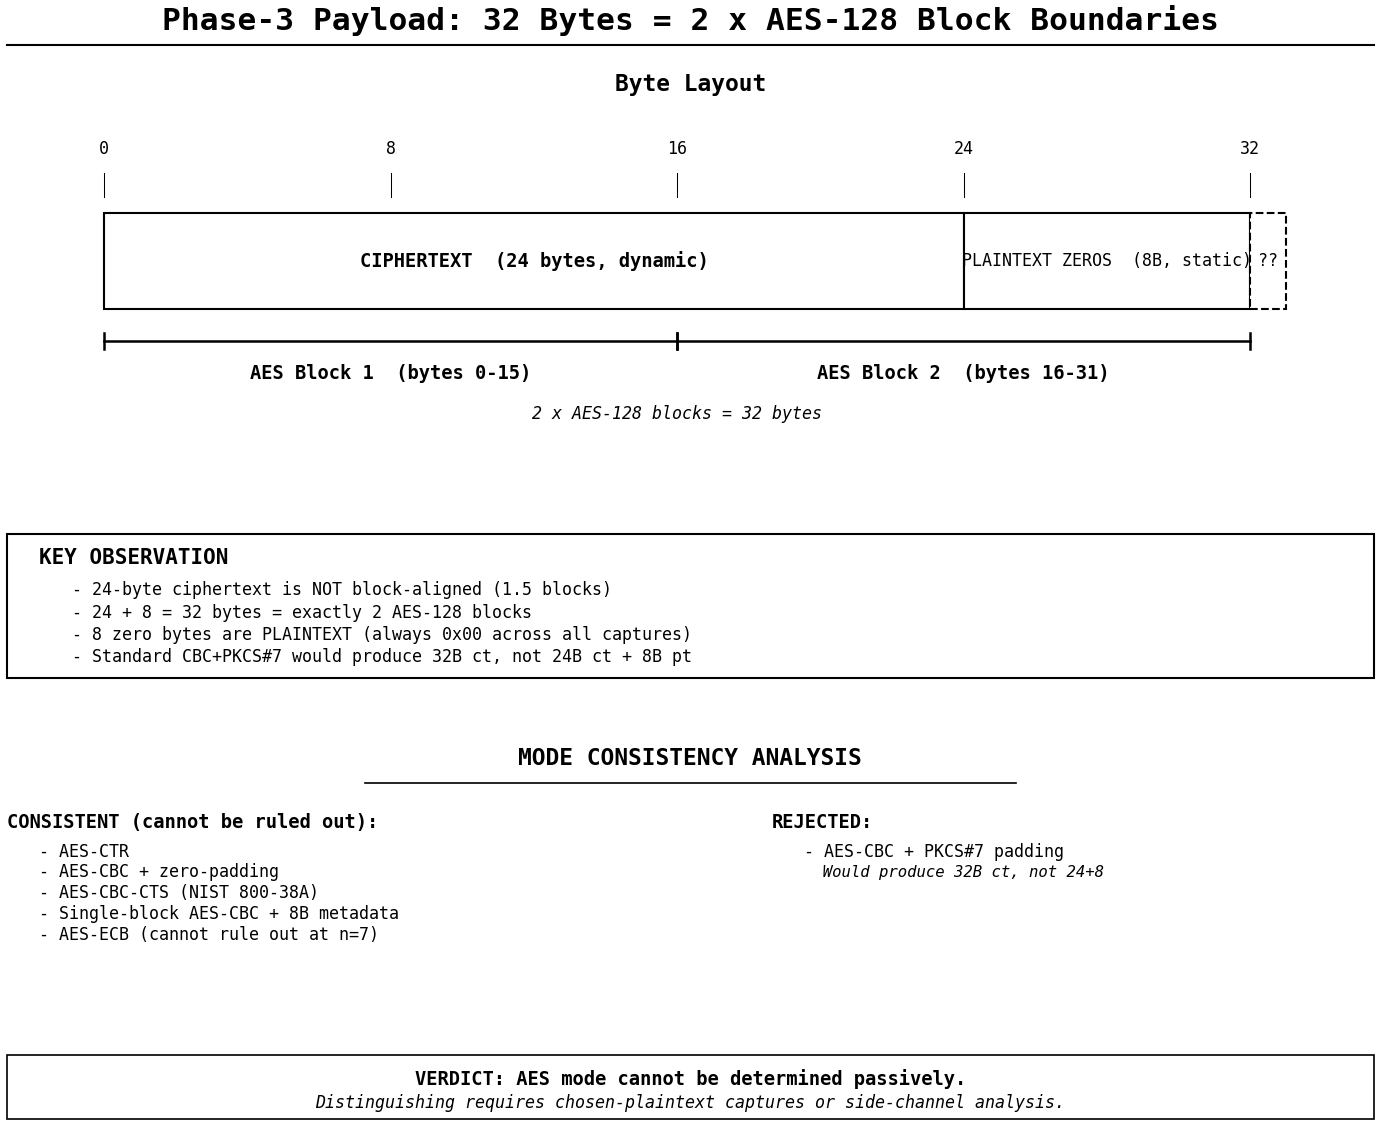
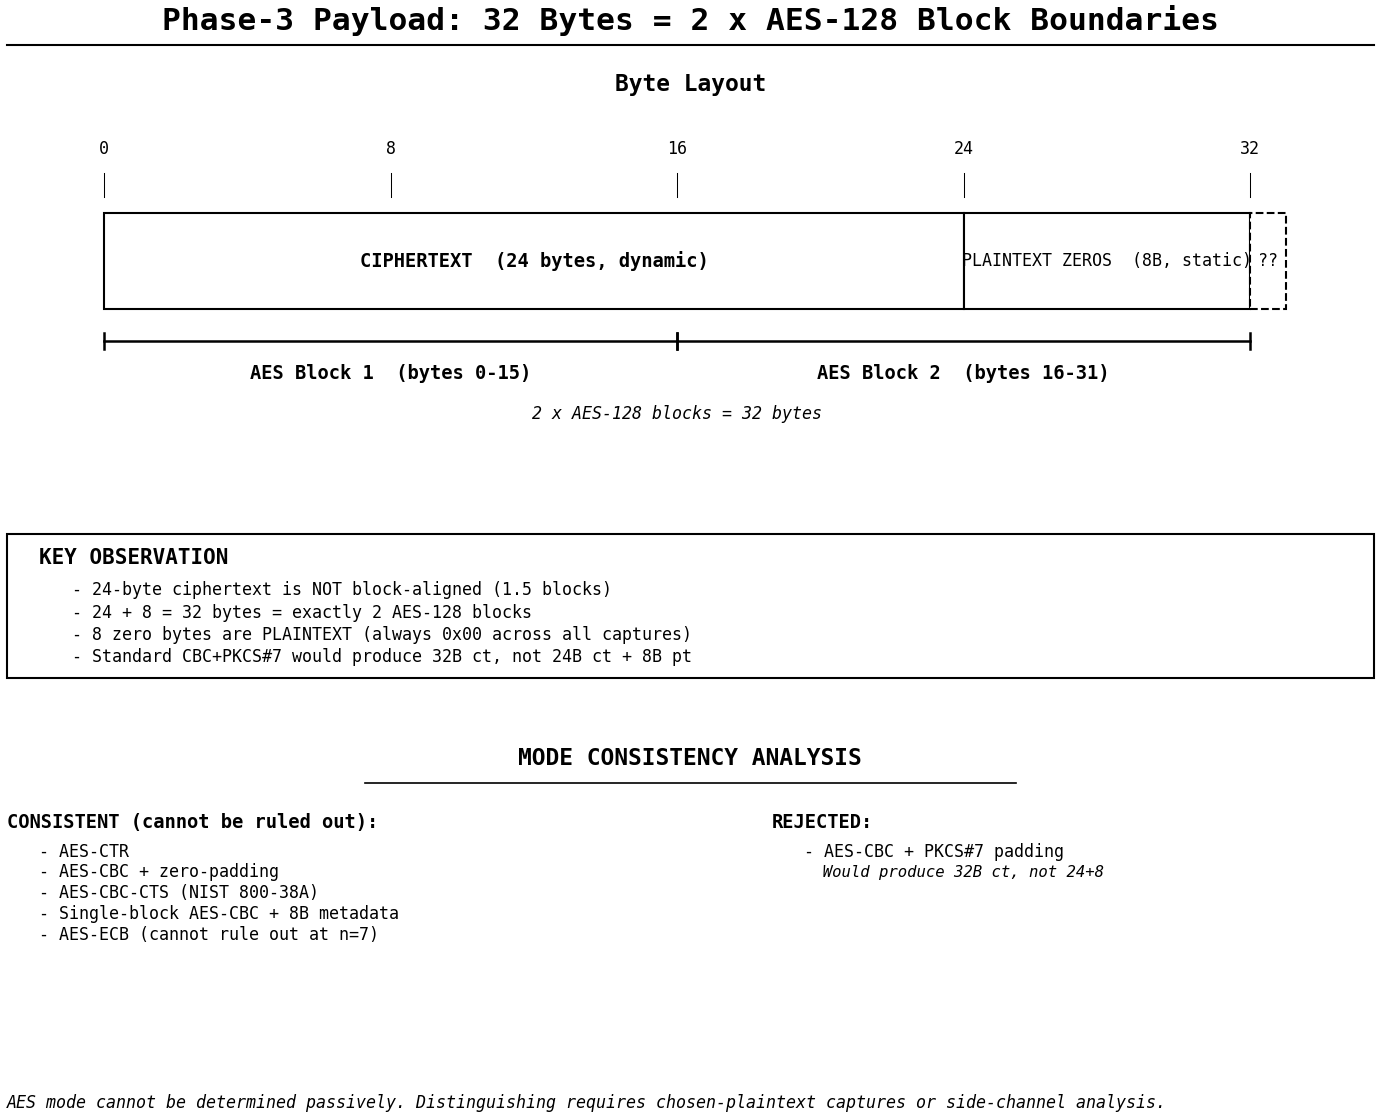
updated files and images

diff --git a/scripts/extended_analysis.py b/scripts/extended_analysis.py
@@ -1,7 +1,7 @@
 #!/usr/bin/env python3
 """
 Extended Differential Cryptanalysis incorporating:
-1. Previous researcher's 6 decoded packets (foo2-packets.txt)  
+1. Previous researcher's 6 decoded packets (decoded_unlock_sessions.txt)  
 2. Extas_compare CSV files (t1-t5.csv)
 3. Original 10 TimeStamps captures
 
@@ -79,7 +79,7 @@ def process_csv_file(file_path: str, reader_func) -> List[int]:
     return binary_to_bytes(binary_data)
 
 def parse_previous_work_packets(file_path: str) -> List[List[int]]:
-    """Parse the foo2-packets.txt format - extract complete unlock sessions."""
+    """Parse the decoded_unlock_sessions.txt format - extract complete unlock sessions."""
     sessions = []
     current_session = []
     
@@ -133,7 +133,7 @@ def parse_previous_work_packets(file_path: str) -> List[List[int]]:
     return sessions
 
 def parse_key_txt(file_path: str) -> List[int]:
-    """Parse key1.txt/key2.txt format."""
+    """Parse session_key_a.txt/session_key_b.txt format."""
     byte_values = []
     with open(file_path, 'r') as f:
         for line in f:
@@ -187,7 +187,7 @@ def extract_protocol_fields(session: List[int]) -> Dict:
             result['system_id'] = {'position': i, 'value': 'V1004261'}
             break
     
-    # Based on the packet structure from foo2-packets.txt:
+    # Based on the packet structure from decoded_unlock_sessions.txt:
     # The protocol uses a command/response structure:
     # 82 00 XX YY = command from master (lock/key)
     #    XX = command sequence number (01, 02, 03, 04)
@@ -323,7 +323,7 @@ def cross_source_comparison(all_sessions: List[List[int]], all_labels: List[str]
     print(f"  Total: {len(all_sessions)}")
     
     # Extract nonce (challenge) bytes from each session using the known protocol structure
-    # From foo2-packets.txt, the nonce is at: "00 02 11 08" followed by 8+1 bytes
+    # From decoded_unlock_sessions.txt, the nonce is at: "00 02 11 08" followed by 8+1 bytes
     print(f"\n{'─' * 70}")
     print("NONCE/CHALLENGE EXTRACTION (packet: 00 02 11 08 <8 bytes> <crc>)")
     print(f"{'─' * 70}")
@@ -342,7 +342,7 @@ def cross_source_comparison(all_sessions: List[List[int]], all_labels: List[str]
                 break
     
     # Extract MAC (authentication hash) from each session
-    # From foo2-packets.txt, MAC is at: "82 00 04 80 15" followed by 22 bytes
+    # From decoded_unlock_sessions.txt, MAC is at: "82 00 04 80 15" followed by 22 bytes
     print(f"\n{'─' * 70}")
     print("SHA-1 MAC EXTRACTION (packet: 82 00 04 80 15 <22 bytes>)")
     print(f"{'─' * 70}")
@@ -358,7 +358,7 @@ def cross_source_comparison(all_sessions: List[List[int]], all_labels: List[str]
                 break
     
     # Extract encrypted payload from each session
-    # From foo2-packets.txt, encrypted data is at: "82 00 03 0a 20" followed by 33 bytes
+    # From decoded_unlock_sessions.txt, encrypted data is at: "82 00 03 0a 20" followed by 33 bytes
     print(f"\n{'─' * 70}")
     print("ENCRYPTED PAYLOAD EXTRACTION (packet: 82 00 03 0A 20 <33 bytes>)")
     print(f"{'─' * 70}")
@@ -550,7 +550,7 @@ def cross_source_comparison(all_sessions: List[List[int]], all_labels: List[str]
         print(f"    Static bytes: {static_bytes}/{min_plen} ({static_bytes/min_plen*100:.1f}%)")
         print(f"    Dynamic bytes: {dynamic_bytes}/{min_plen} ({dynamic_bytes/min_plen*100:.1f}%)")
         
-        # The encrypted payload from foo2-packets has this structure:
+        # The encrypted payload from decoded_unlock_sessions has this structure:
         # 82 00 03 0a 20 [24 bytes encrypted] [8 bytes zeros] [1 byte CRC]
         # Let's check if the zeros are always there
         print(f"\n  Checking for zero-padding pattern in encrypted payload:")
@@ -583,8 +583,8 @@ def main():
     
     prev_work_path = os.path.join(repo_root, "data", "previous_research")
     
-    # Load from foo2-packets.txt
-    packets_file = os.path.join(prev_work_path, "foo2-packets.txt")
+    # Load from decoded_unlock_sessions.txt
+    packets_file = os.path.join(prev_work_path, "decoded_unlock_sessions.txt")
     if os.path.exists(packets_file):
         prev_sessions = parse_previous_work_packets(packets_file)
         for i, session in enumerate(prev_sessions):
@@ -592,8 +592,8 @@ def main():
             all_labels.append(f"prev_pkt{i+1}")
             print(f"  Loaded prev_pkt{i+1}: {len(session)} bytes")
     
-    # Load from key1.txt, key2.txt (different key from earlier research)
-    for kf in ['key1.txt', 'key2.txt']:
+    # Load from session_key_a.txt, session_key_b.txt (different key from earlier research)
+    for kf in ['session_key_a.txt', 'session_key_b.txt']:
         path = os.path.join(prev_work_path, kf)
         if os.path.exists(path):
             data = parse_key_txt(path)

diff --git a/scripts/generate_images.py b/scripts/generate_images.py
@@ -251,14 +251,9 @@ def make_aes_block():
     ax.text(57, col_y - 3.1, '  Would produce 32B ct, not 24+8',
             ha='left', va='center', fontsize=7.5, color=K, style='italic')
 
-    # Verdict box
-    y_v = 3.5
-    ax.add_patch(Rectangle((8, y_v - 2), 84, 4,
-                            facecolor=W, edgecolor=K, linewidth=0.8))
-    ax.text(50, y_v + 0.5, 'VERDICT: AES mode cannot be determined passively.',
-            ha='center', va='center', fontsize=9, fontweight='bold', color=K)
-    ax.text(50, y_v - 1, 'Distinguishing requires chosen-plaintext captures or side-channel analysis.',
-            ha='center', va='center', fontsize=8, color=K, style='italic')
+    # Closing note (left-aligned, no box)
+    ax.text(8, 2.5, 'AES mode cannot be determined passively. Distinguishing requires chosen-plaintext captures or side-channel analysis.',
+            ha='left', va='center', fontsize=8, color=K, style='italic')
 
     out = os.path.join(OUT, 'aes_block_alignment.png')
     plt.savefig(out, dpi=150, facecolor='white', bbox_inches='tight',

diff --git a/scripts/advanced_critique_analysis.py b/scripts/advanced_critique_analysis.py
@@ -37,7 +37,7 @@ NONCES = {
 }
 
 # 6 MACs from Phase 4 (authentication hash), 22 bytes each
-# Source: data/previous_research/foo2-packets.txt, key1.txt, key2.txt
+# Source: data/previous_research/decoded_unlock_sessions.txt, session_key_a.txt, session_key_b.txt
 # Format: 82 00 04 80 15 [22 bytes MAC] - we extract the 22 bytes after "80 15"
 MACS = {
     'prev_pkt1': [0x85, 0x72, 0xD1, 0x57, 0xFE, 0xBA, 0x71, 0xF5,
@@ -61,7 +61,7 @@ MACS = {
 }
 
 # Encrypted payloads from Phase 3 (24 ciphertext + 8 zeros + 1 CRC)
-# Source: data/previous_research/foo2-packets.txt, key1.txt, key2.txt
+# Source: data/previous_research/decoded_unlock_sessions.txt, session_key_a.txt, session_key_b.txt
 # Format: 82 00 03 0A 20 [24 bytes ciphertext] [8 bytes 0x00] [CRC]
 ENCRYPTED_PAYLOADS = {
     'prev_pkt1': {

diff --git a/scripts/crc_bruteforce.py b/scripts/crc_bruteforce.py
@@ -183,7 +183,7 @@ def main():
         print("\n  ⚠ No standard CRC-8 variant matches any plausible input combination.")
         print("  This suggests the trailing byte is either:")
         print("  - A non-CRC checksum (e.g., XOR, modular sum, custom polynomial)")
-        print("  - A CRC with non-standard parameters (e.g., the patterns.php extra-zero-pass variant)")
+        print("  - A CRC with non-standard parameters (e.g., the protocol_decoder.php extra-zero-pass variant)")
         print("  - A truncated hash or sequence-derived value")
         print("  No standard CRC-8 variant (including CRC-8/MAXIM) matches any plausible input combination.")
 

diff --git a/scripts/statistical_analysis.py b/scripts/statistical_analysis.py
@@ -131,7 +131,7 @@ def power_for_r(n, alpha, r_true):
 def verify_c1():
     prev_dir = '/home/z/my-project/review/cliq-protocol-cryptanalysis/data/previous_research'
     all_bytes = []
-    for fname in ['foo2-packets.txt', 'key1.txt', 'key2.txt']:
+    for fname in ['decoded_unlock_sessions.txt', 'session_key_a.txt', 'session_key_b.txt']:
         with open(os.path.join(prev_dir, fname)) as f:
             for line in f:
                 if line.strip().startswith('hex:'):

diff --git a/scripts/README.md b/scripts/README.md
@@ -1,0 +1,45 @@
+# Scripts
+
+Analysis scripts for the CLIQ 1-Wire protocol cryptanalysis. All scripts are Python 3, no external dependencies.
+
+## Signal Decoding
+
+| Script | What it does |
+|--------|-------------|
+| `decode_signal.py` | Core 1-Wire signal decoder. Reads logic analyzer CSV files, decodes pulse-width encoded data into bytes. |
+| `analyze_captures.py` | Basic signal analysis. Decodes multiple captures, identifies protocol structure, detects 1-Wire commands, checks CRC-8 blocks. |
+
+## Cryptanalysis
+
+| Script | What it does |
+|--------|-------------|
+| `differential_cryptanalysis.py` | Differential cryptanalysis suite. Hamming distances, avalanche effect, XOR differentials, chi-squared tests, block cipher mode detection, correlation analysis. |
+| `extended_analysis.py` | Multi-source analysis combining all 23 sessions from Uni Rostock prior research and 2024 Saleae captures. Protocol-aware field extraction. |
+| `advanced_critique_analysis.py` | Bonferroni correction for multiple hypothesis testing, CRC-16 verification on MAC bytes, SAC vs output independence analysis, AES block mode determination. |
+
+## Verification Scripts
+
+| Script | What it does |
+|--------|-------------|
+| `crc_bruteforce.py` | Brute-force search over 2^17 CRC-8 variants to identify the trailing checksum byte algorithm. Uses algebraic shortcut for fast search. |
+| `statistical_analysis.py` | Exact p-values via regularized incomplete beta function, explicit power analysis (Fisher z-transformation), disjoint-pair chi-squared test. Verifies which command bytes actually appear in the protocol. |
+
+## Image Generation
+
+| Script | What it does |
+|--------|-------------|
+| `generate_images.py` | Generates `assets/protocol_flow.png` and `assets/aes_block_alignment.png`. Classic style: white background, monospace font, black text. |
+
+## Usage
+
+```bash
+python3 scripts/analyze_captures.py
+python3 scripts/differential_cryptanalysis.py
+python3 scripts/extended_analysis.py
+python3 scripts/advanced_critique_analysis.py
+python3 scripts/crc_bruteforce.py
+python3 scripts/statistical_analysis.py
+python3 scripts/generate_images.py
+```
+
+Scripts write JSON output files to the repo root: `crypto_analysis_results.json`, `critique_analysis_results.json`, `crc_bruteforce_results.json`, `statistical_analysis_results.json`.

diff --git a/README.md b/README.md
@@ -123,7 +123,7 @@ The signal is a standard 1-Wire bus with pulse-width encoded data:
 
 The key acts as the bus master. The lock is the slave device and is powered by the key's battery through the contact pin.
 
-> **Decoder note.** The Python pulse decoder in `scripts/decode_signal.py` classifies pulses as '1' if `3 ≤ duration ≤ 7 µs` and as '0' if `duration > 11 µs`. Pulses in the 7-11 µs gap are silently dropped. The original Uni Rostock decoder (`data/previous_research/patterns.php`) uses a more robust state machine with explicit "short pulse followed by pause" / "long pulse followed by pause" patterns that handle end-of-byte transitions. Captures that produce misaligned bytes under the Python decoder should be re-decoded with the PHP variant.
+> **Decoder note.** The Python pulse decoder in `scripts/decode_signal.py` classifies pulses as '1' if `3 ≤ duration ≤ 7 µs` and as '0' if `duration > 11 µs`. Pulses in the 7-11 µs gap are silently dropped. The original Uni Rostock decoder (`data/previous_research/protocol_decoder.php`) uses a more robust state machine with explicit "short pulse followed by pause" / "long pulse followed by pause" patterns that handle end-of-byte transitions. Captures that produce misaligned bytes under the Python decoder should be re-decoded with the PHP variant.
 
 ---
 
@@ -285,7 +285,7 @@ ASSA ABLOY states in their product documentation that CLIQ uses 128-bit AES. Loo
 
 A trailing byte appears at the end of every packet in the protocol. Its specific algorithm has not been identified.
 
-A brute-force search was performed over the entire 2^17 CRC-8 parameter space (polynomial x initial value x final XOR x reflect-input x reflect-output) against 7 known (Phase-3 payload, trailing byte) pairs and 7 known (Phase-2 nonce packet, trailing byte) pairs. **Zero CRC-8 variants match any plausible input combination.** The `patterns.php` extra-zero-pass variant was also tested and does not match. Simple XOR, sum-8, and two's-complement-sum-8 checksums were also tested and do not match.
+A brute-force search was performed over the entire 2^17 CRC-8 parameter space (polynomial x initial value x final XOR x reflect-input x reflect-output) against 7 known (Phase-3 payload, trailing byte) pairs and 7 known (Phase-2 nonce packet, trailing byte) pairs. **Zero CRC-8 variants match any plausible input combination.** The `protocol_decoder.php` extra-zero-pass variant was also tested and does not match. Simple XOR, sum-8, and two's-complement-sum-8 checksums were also tested and do not match.
 
 The trailing byte is therefore **unidentified**. Plausible candidates that have not yet been ruled out include:
 
@@ -549,7 +549,7 @@ This analysis is bounded by the following limitations. Findings should be interp
 
 5. **Trailing checksum byte unidentified.** The brute-force search over 2^17 CRC-8 variants returned zero matches. The trailing byte is some form of per-packet checksum, but its specific algorithm is unknown. This is a quality gap, not a security gap: the trailing byte provides error detection at most.
 
-6. **Reliance on prior research data.** The 2014 captures come from University of Rostock IuK. While their work has been re-verified where possible (hard-coded NONCES / MACS / ENCRYPTED_PAYLOADS tables in `scripts/advanced_critique_analysis.py` match the raw `foo2-packets.txt`, `key1.txt`, `key2.txt` byte-for-byte), the original capture methodology and any preprocessing steps are not under this author's control.
+6. **Reliance on prior research data.** The 2014 captures come from University of Rostock IuK. While their work has been re-verified where possible (hard-coded NONCES / MACS / ENCRYPTED_PAYLOADS tables in `scripts/advanced_critique_analysis.py` match the raw `decoded_unlock_sessions.txt`, `session_key_a.txt`, `session_key_b.txt` byte-for-byte), the original capture methodology and any preprocessing steps are not under this author's control.
 
 7. **Post-quantum readiness is not assessed.** This is a physical-locking-system threat model; quantum cryptanalysis is not relevant. AES-128's effective security under Grover (~64 bits) is adequate for this product class through the 2030+ horizon.
 
@@ -608,11 +608,11 @@ Other areas of concern: the system ID is exposed in plaintext every session (tra
 |  |  +- user2_key/           # 2 sessions (2024, different key)
 |  |  +- extas_comparison/    # 5 sessions (2024, comparison captures)
 |  +- previous_research/      # Uni Rostock decoded packets (~2014)
-|     +- foo2-packets.txt     # 6 decoded unlock sessions (hex + ASCII)
-|     +- key1.txt             # Decoded session from a second key
-|     +- key2.txt             # Another session from that second key
-|     +- patterns.php         # Uni Rostock protocol decoder (CRC-8 variant)
-|     +- dump.c               # C program for extracting transitions from ADC captures
+|     +- decoded_unlock_sessions.txt  # 6 decoded unlock sessions (hex + ASCII)
+|     +- session_key_a.txt          # Decoded session from a second key
+|     +- session_key_b.txt          # Another session from that second key
+|     +- protocol_decoder.php       # Uni Rostock protocol decoder (CRC-8 variant)
+|     +- signal_extractor.c         # C program for extracting transitions from ADC captures
 |     +- ATTRIBUTION.md
 +- scripts/
 |  +- decode_signal.py                # Core 1-Wire signal decoder

diff --git a/data/previous_research/ATTRIBUTION.md b/data/previous_research/ATTRIBUTION.md
@@ -11,11 +11,11 @@ The files in this directory were originally produced at the **University of Rost
 
 | File | Description |
 |------|-------------|
-| `foo2-packets.txt` | 6 decoded unlock sessions showing full hex + ASCII packet data |
-| `key1.txt` | Decoded session from a second key (including raw bit-level data) |
-| `key2.txt` | Another decoded session from that second key |
-| `patterns.php` | Protocol decoder with pulse-width pattern matching and CRC-8 |
-| `dump.c` | C program for extracting signal transitions from raw ADC captures |
+| `decoded_unlock_sessions.txt` | 6 decoded unlock sessions showing full hex + ASCII packet data |
+| `session_key_a.txt` | Decoded session from a second key (including raw bit-level data) |
+| `session_key_b.txt` | Another decoded session from that second key |
+| `protocol_decoder.php` | Protocol decoder with pulse-width pattern matching and CRC-8 |
+| `signal_extractor.c` | C program for extracting signal transitions from raw ADC captures |
 
 ## Context
 